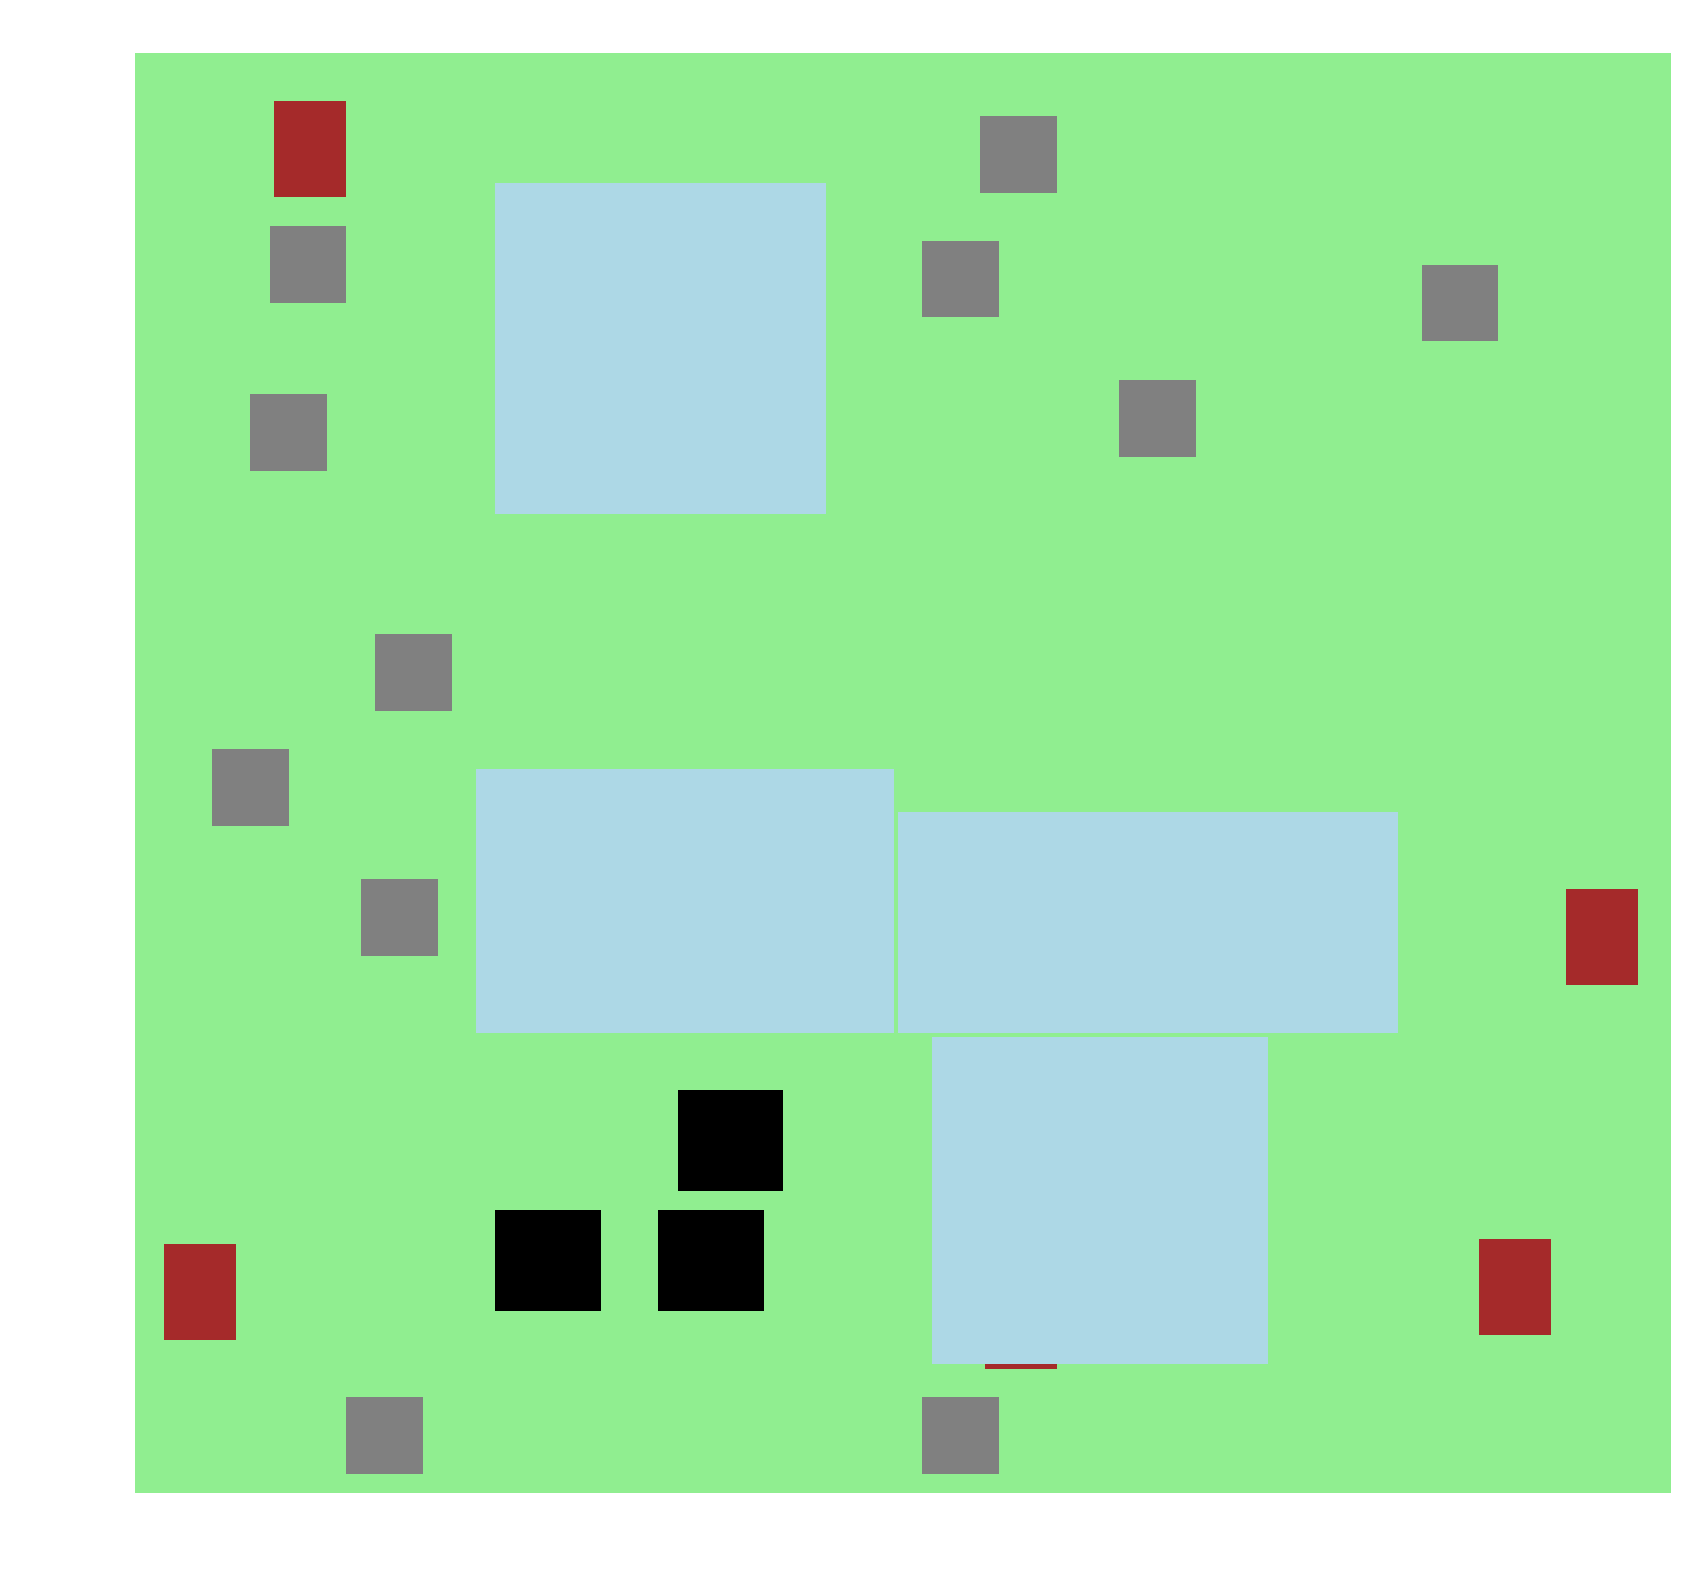
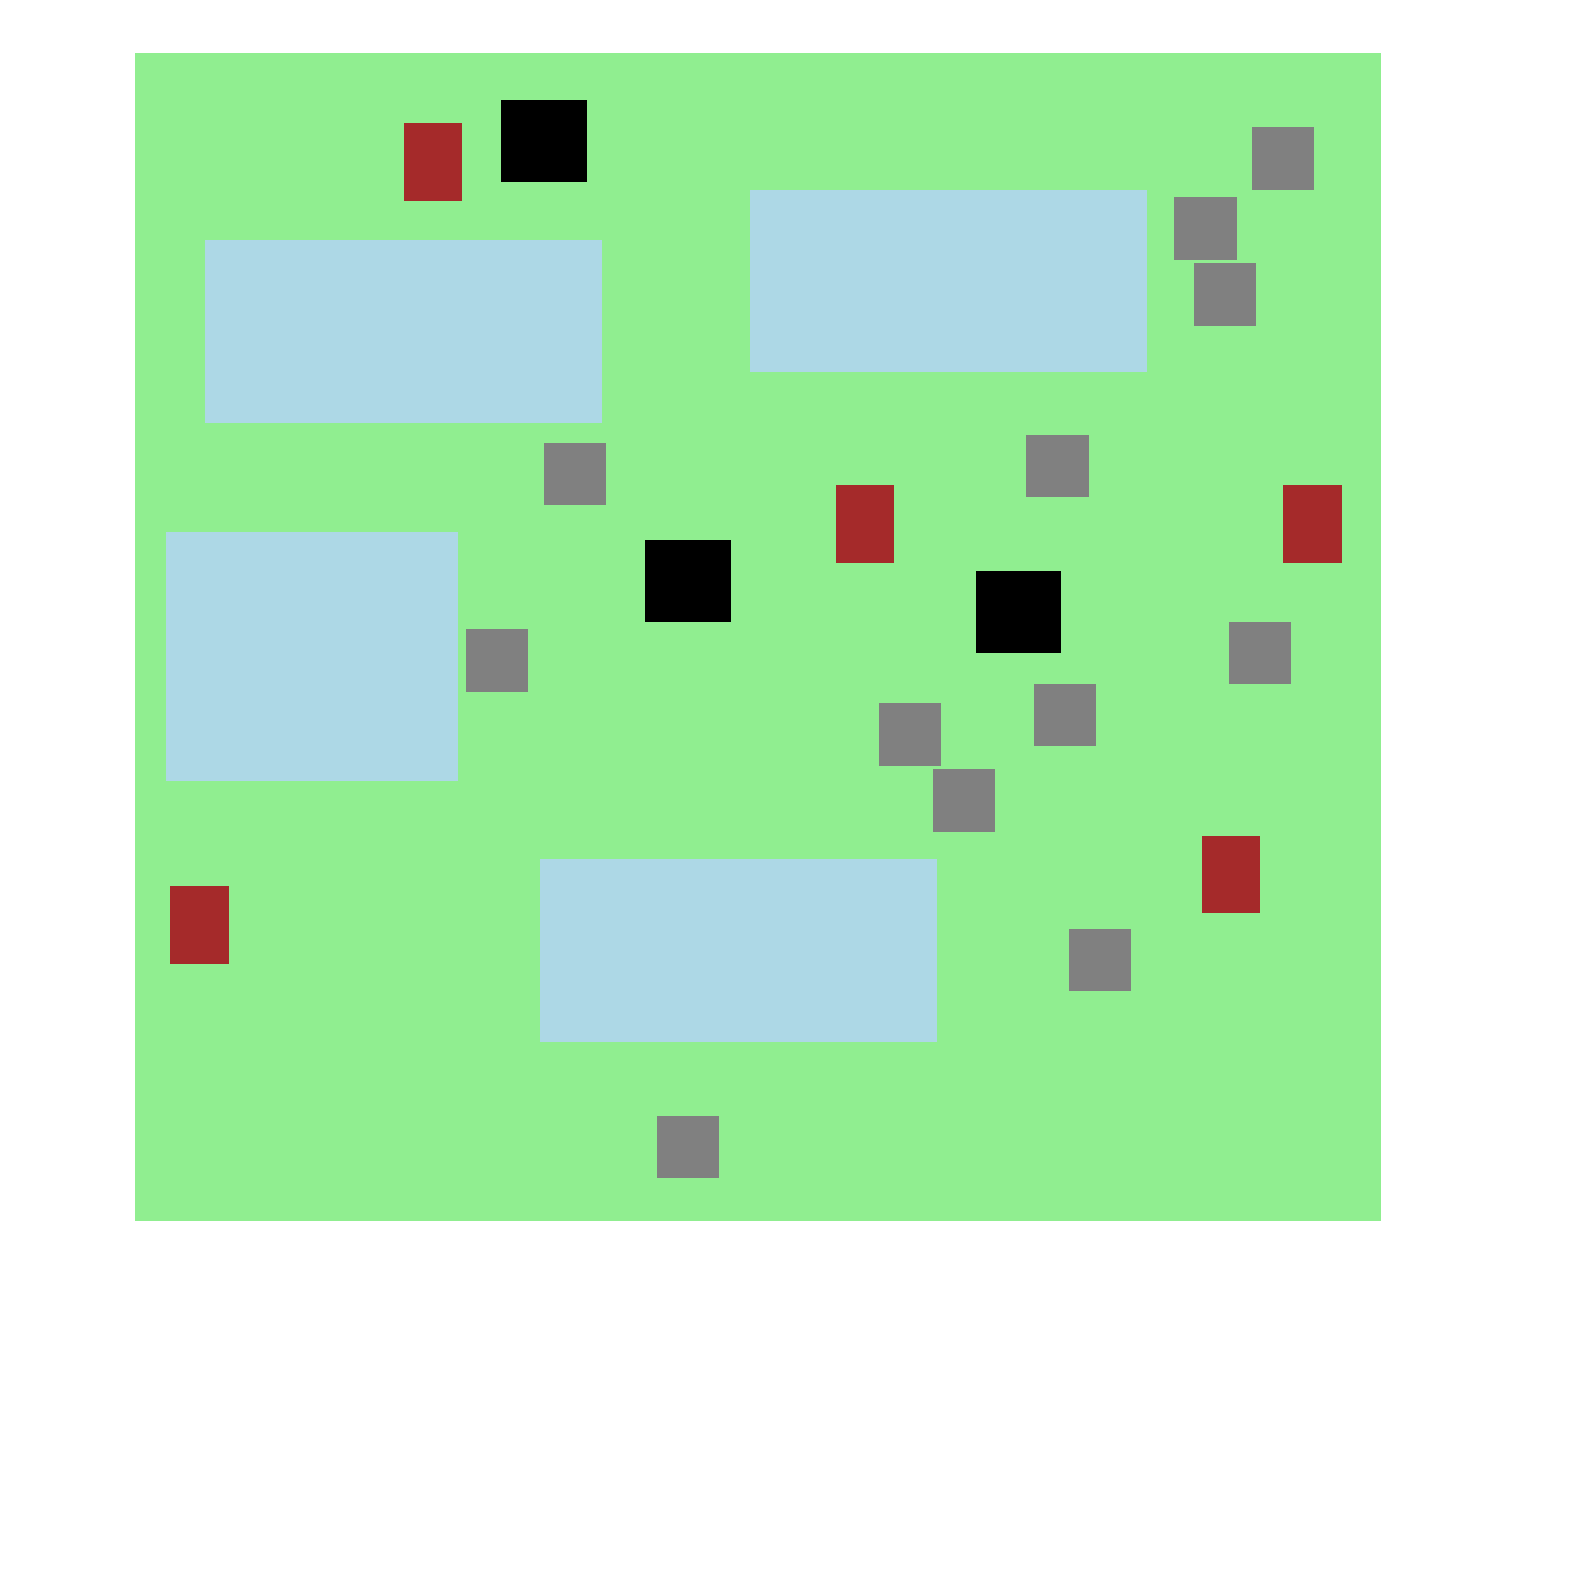
random sampling climber is af!
TODO: water doet raar
vrijstand nog niet correct in plaats functie
assen grafiek nog niet tof, ook liever een lijntje

diff --git a/graphic/index.html b/graphic/index.html
@@ -9,27 +9,30 @@
 		<canvas id="veld"  width="960" height="900"></canvas>
 	</div>
 	<textarea id="huisplaats" style="display:none;">
-		4,4,16,16,Eengezins
-		24,4,16,16,Eengezins
-		44,4,16,16,Eengezins
-		64,4,16,16,Eengezins
-		84,4,16,16,Eengezins
-		104,4,16,16,Eengezins
-		124,4,16,16,Eengezins
-		144,4,16,16,Eengezins
-		164,4,16,16,Eengezins
-		184,4,16,16,Eengezins
-		204,4,16,16,Eengezins
-		224,4,16,16,Eengezins
-		246,6,20,15,Bungalow
-		267,6,20,15,Bungalow
-		6,32,20,15,Bungalow
-		27,32,20,15,Bungalow
-		48,32,20,15,Bungalow
-		75,38,21,22,Villa
-		109,38,21,22,Villa
-		143,38,21,22,Villa
-		1,60,131,146,Water
+		96,190,43,111,Water
+		178,203,20,15,Bungalow
+		275,259,16,16,Eengezins
+		154,1,60,80,Water
+		78,191,16,16,Eengezins
+		272,183,16,16,Eengezins
+		58,241,21,22,Villa
+		21,58,16,16,Eengezins
+		153,66,20,15,Bungalow
+		193,202,16,16,Eengezins
+		144,110,16,16,Eengezins
+		265,207,16,16,Eengezins
+		290,192,16,16,Eengezins
+		86,274,20,15,Bungalow
+		145,30,21,22,Villa
+		1,54,50,96,Water
+		109,65,21,22,Villa
+		135,57,16,16,Eengezins
+		152,54,51,94,Water
+		250,57,16,16,Eengezins
+		218,177,16,16,Eengezins
+		12,206,16,16,Eengezins
+		55,41,20,15,Bungalow
+		234,66,20,15,Bungalow
 	</textarea>
 	<script>
 	var canvas = document.getElementById('veld');

diff --git a/combination.py b/combination.py
@@ -2,19 +2,19 @@ import csv
 from classes import *
 import random
 from vrijstand import checkVrijstand
-maxiteraties = 100
+
 
 class Combination(object):
     # function to fill up house list in class, then shortens list if need be
     def createHouseList(self, amt, bodies):
+        for x in range(bodies):
+            self.houses.append(Water())
         for x in range(int(0.6*amt)):
             self.houses.append(Eengezins())
         for x in range(int(0.25*amt)):
             self.houses.append(Bungalow())
         for x in range(int(0.15*amt)):
             self.houses.append(Villa())
-        for x in range(bodies):
-            self.houses.append(Water())
         del self.houses[(amt+bodies+1):]
 
     # berekening voor de min/max lengtes van het water
@@ -159,28 +159,39 @@ class Combination(object):
     def placeRandom(self, huis, index):
         gelukt = False
         mogelijk = True
+        maxiteraties = 1000
         iteraties = 0
         minx = 0 + huis.minVrij
         miny = 0 + huis.minVrij
-        maxx = self.map.width - huis.minVrij
-        maxy = self.map.length - huis.minVrij
+        maxx = self.map.width - (huis.minVrij + huis.width)
+        maxy = self.map.length - (huis.minVrij + huis.length)
         while gelukt == False:
             if iteraties == maxiteraties:
                 return False
             # geef willekeurige waarden voor hoekpunt huis
-            x = random.randint(minx,maxx)
-            y = random.randint(miny,maxy)
+            xH1 = random.randint(minx,maxx)
+            yH1 = random.randint(miny,maxy)
+            mogelijk = True
+
             # controleer overlap met alle huizen
             for i in range(len(self.houses)):
                 if i == index:
                     pass
                 else:
-                    if (self.houses[i].hoekpunt.x > x and self.houses[i].hoekpunt.x < x + huis.width) or ((self.houses[i].hoekpunt.x + self.houses[i].width) > x and (self.houses[i].hoekpunt.x + self.houses[i].width) < x + huis.width):
-        		        if (self.houses[i].hoekpunt.y > y and self.houses[i].hoekpunt.y < y + huis.length) or ((self.houses[i].hoekpunt.y + self.houses[i].length) > y and (self.houses[i].hoekpunt.y + self.houses[i].length) < y + huis.length):
-        			        # error-> plaatsen niet mogelijk
-        			        mogelijk = False
+                    xH2 = self.houses[i].hoekpunt.x
+                    yH2 = self.houses[i].hoekpunt.y
+                    #check if H2 left and right corners are within H1's x-range
+                    if xH1 <= xH2 <= xH1+huis.width or xH1 <= xH2+self.houses[i].width <= xH1+huis.width:
+                        #check if H2 top and bottom corners are within H1's y-range
+                        if yH1 <= yH2 <= yH1+huis.length or yH1 <= yH2+self.houses[i].length <= yH1+huis.length:
+                            mogelijk = False
+                    #check if H1 left and right corners are within H2's x-range
+                    elif xH2 <= xH1 <= xH2+self.houses[i].width or xH2 <= xH1+huis.width <= xH2+self.houses[i].width:
+                        #check if H1 top and bottom corners are within H2's y-range
+                        if yH2 <= yH1 <= yH2+self.houses[i].length or yH2 <= yH1+huis.length <= yH2+self.houses[i].length:
+                            mogelijk = False
             if mogelijk == True:
-                huis.hoekpunt.setPoint(x,y)
+                huis.hoekpunt.setPoint(xH1,yH1)
                 gelukt = True
             iteraties += 1
         return True

diff --git a/main.py b/main.py
@@ -1,18 +1,24 @@
 import csv
 from combination import Combination
 import random
-from vrijstand import checkVrijstand
 from graph import *
+import matplotlib.pyplot as plt
 
+aantalhuizen = 20
+aantalwater = 4
+maxcombinaties = 100
+plotymin = 0
+plotymax = 15000000
+
+uitkomsten = []
 hoogstewaarde = 0
 iteratie = 0
-maxcombinaties = 10
-uitkomsten = []
-# create object containing "dumb solution"
+best = 0
+
 while iteratie < maxcombinaties:
     error = False
-    combinatie = Combination(20, 4)
-    combinatie.placeAll()
+    combinatie = Combination(aantalhuizen, aantalwater)
+    #combinatie.placeAll()
     for i in range(len(combinatie.houses)):
         if combinatie.placeRandom(combinatie.houses[i], i) != True:
             error = True
@@ -21,8 +27,22 @@ while iteratie < maxcombinaties:
         temp = combinatie.evaluatie
         if temp[1] > hoogstewaarde:
             hoogstewaarde = temp[1]
+            best = combinatie
     uitkomsten.append(hoogstewaarde)
+    if iteratie == 0:
+        combinatie.evalueer()
+        temp = combinatie.evaluatie
+        if temp[1] > hoogstewaarde:
+            hoogstewaarde = temp[1]
+            best = combinatie
+        plt.ion()
+        plotymin = hoogstewaarde
+        plt.axis([0.0,maxcombinaties, plotymin, plotymax])
+        plt.show()
     iteratie += 1
-    mapMaken(combinatie.houses)
+    plt.scatter(iteratie, hoogstewaarde)
+    plt.draw()
 
-graphMaken(uitkomsten)
+mapMaken(best.houses)
+best.evalueer()
+best.printToCSV()

diff --git a/graph.py b/graph.py
@@ -4,7 +4,7 @@ import matplotlib.patches as patches
 def mapMaken(huizen):
 	fig1 = plt.figure()
 	ax1 = fig1.add_subplot(111, aspect='equal')
-	plt.axis([0, 320, 0, 300])
+	plt.axis([0, 350, 0, 370])
 	plt.axis('off')
 	ax1.add_patch(patches.Rectangle((0, 0), 320, 300, facecolor="lightgreen", edgecolor="none"))
 
@@ -18,11 +18,14 @@ def mapMaken(huizen):
 		elif huizen[i].type == "Water":
 			ax1.add_patch(patches.Rectangle((huizen[i].hoekpunt.x, huizen[i].hoekpunt.y), huizen[i].width, huizen[i].length, facecolor="lightblue", edgecolor="none"))
 
+	plt.gca().invert_yaxis()
 	fig1.savefig('map.png', dpi=300, bbox_inches='tight')
 
 def graphMaken(uitkomsten):
+	fig1 = plt.figure()
 	plt.plot(uitkomsten)
 	plt.ylabel('Waarde in Euro\'s')
 	plt.xlabel('Iteratie')
+
 	plt.show()
-	plt.savefig('graph.png', dpi=300, bbox_inches='tight')
+	fig1.savefig('graph.png', dpi=300, bbox_inches='tight')

diff --git a/classes.py b/classes.py
@@ -12,6 +12,7 @@ class House(object):
         self.geplaatst = False
         self.extraVrij = 0
         self.waarde = 0
+        self.meerpermeter = 0
 
     def setSize(self, length, width):
         self.length = length
